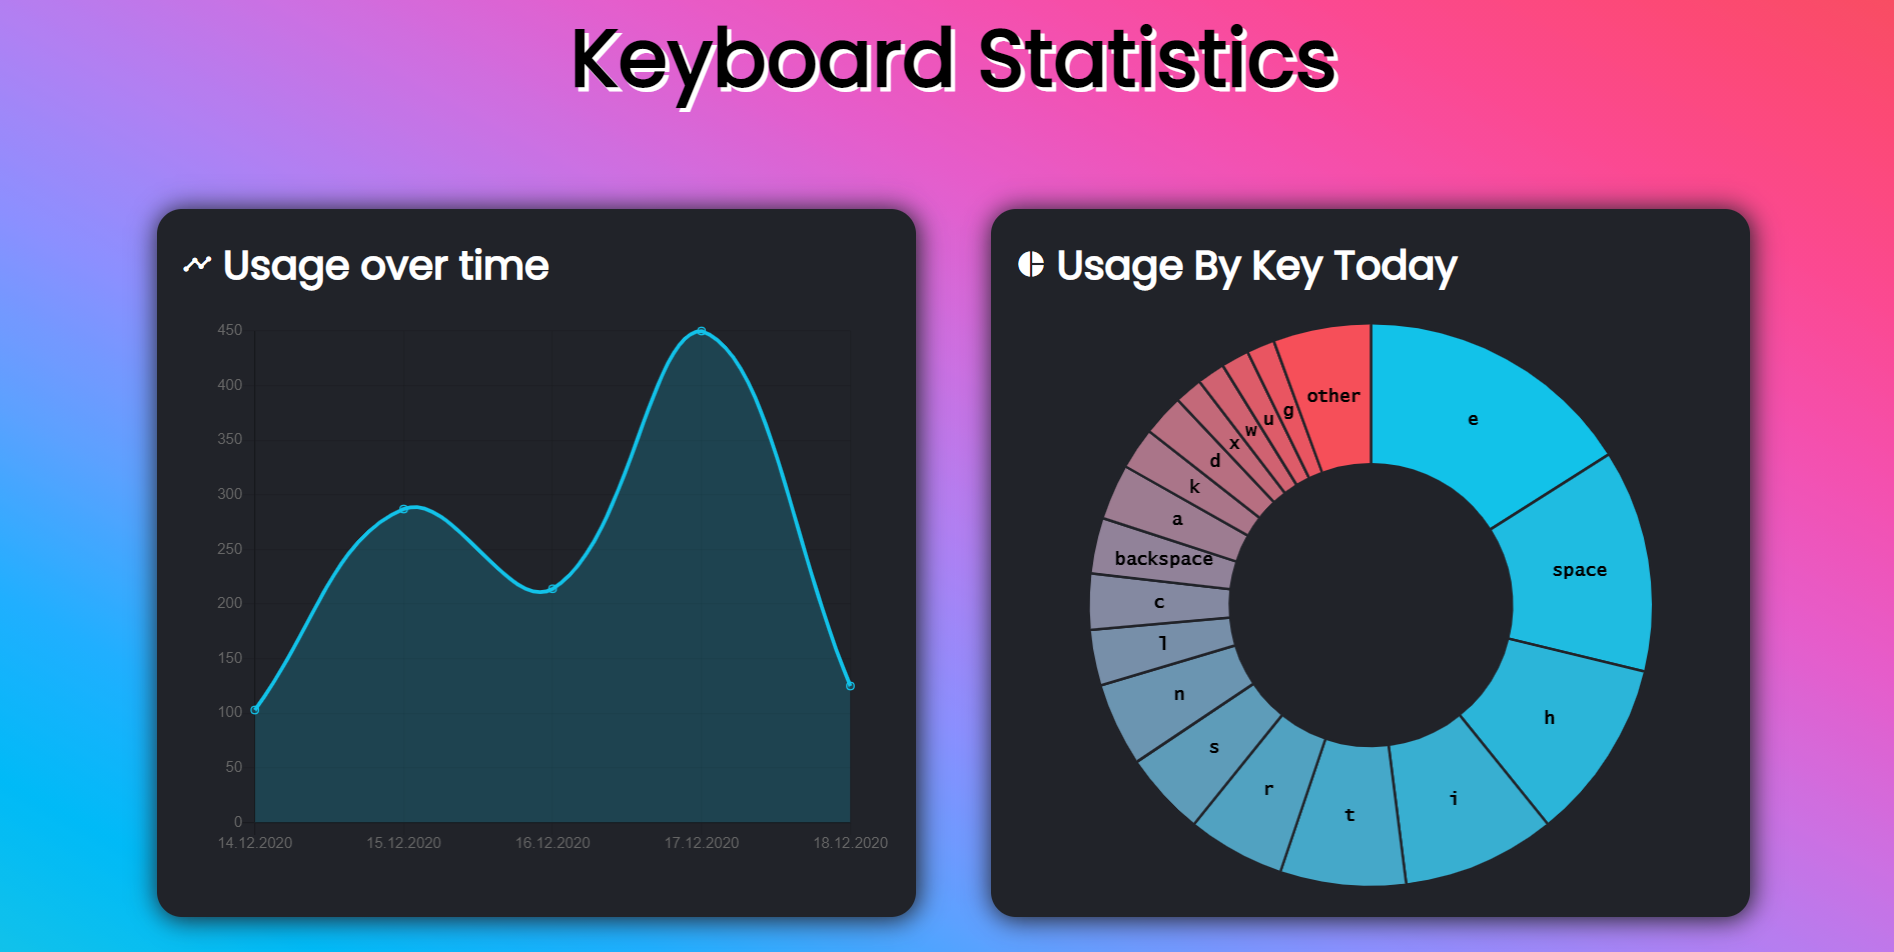
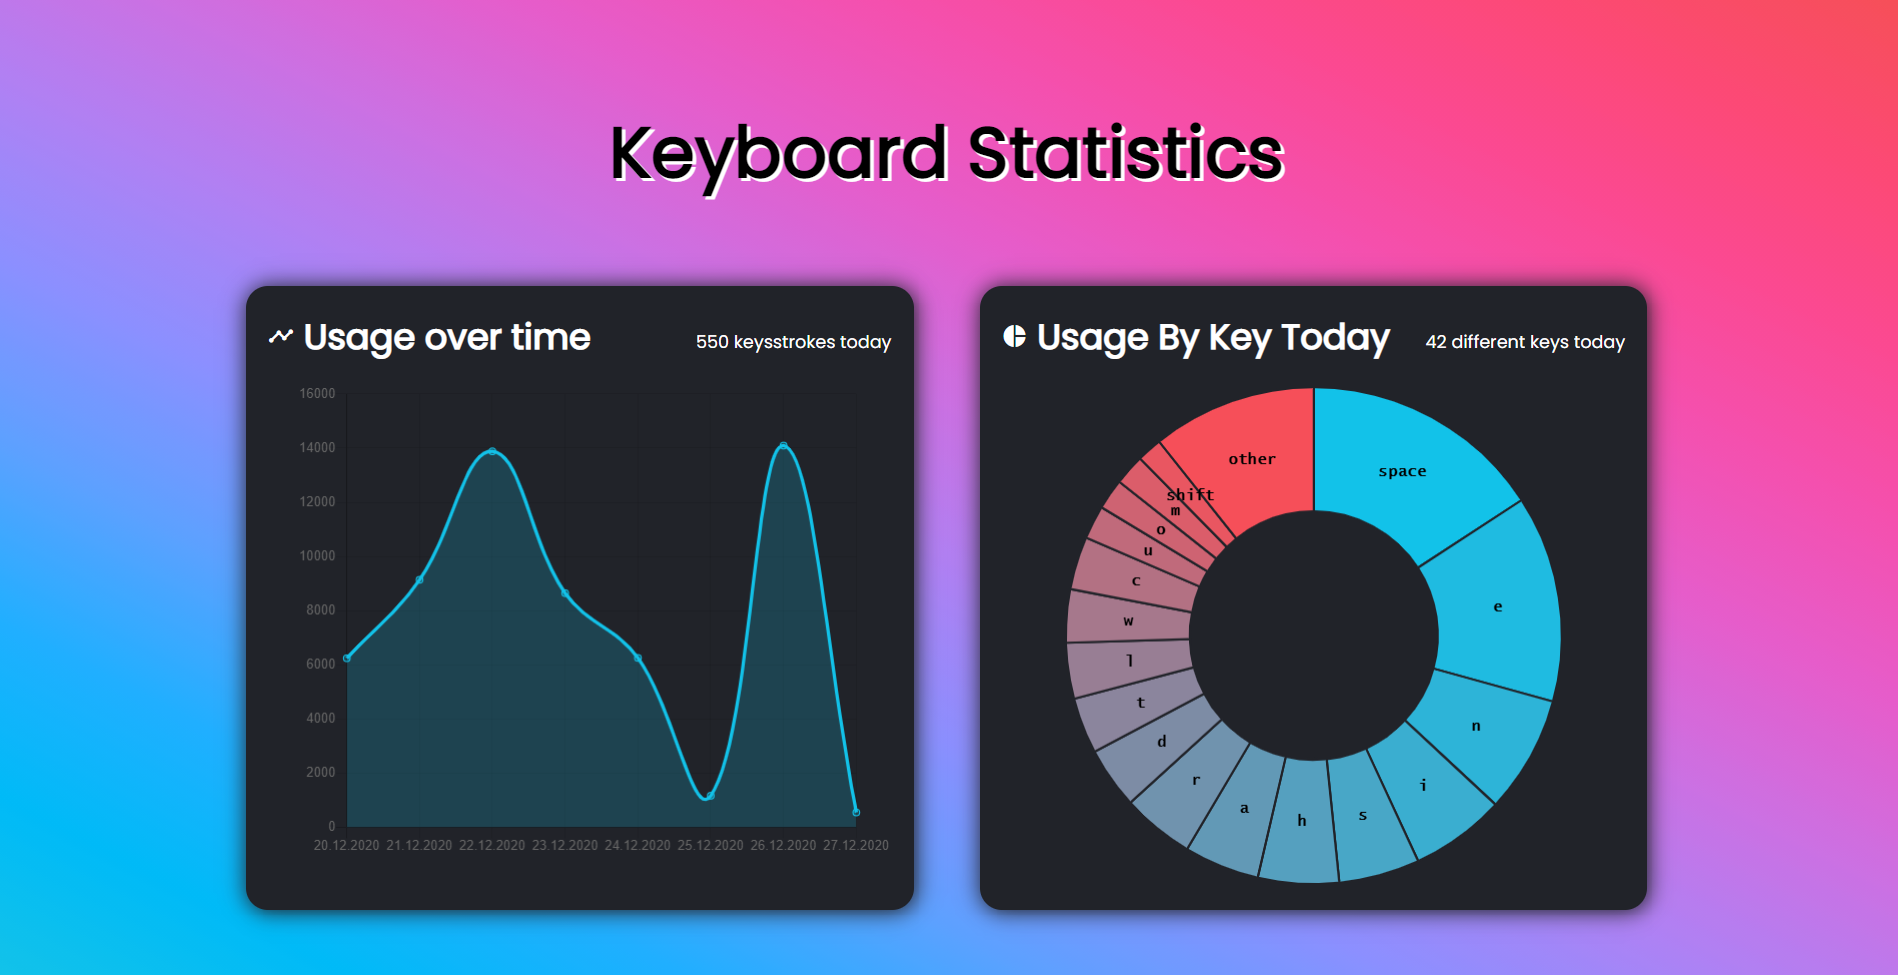
Added more Informationen & animation

diff --git a/static/js/live-updater.js b/static/js/live-updater.js
@@ -7,15 +7,18 @@ $(document).ready(function() {
     // get data
     const data = JSON.parse(msg.data);
 
+    // update total distinct keys
+    document.getElementById("total_distinct_keys").innerHTML = data['distribution_data'].length;
+
     // update time-diagram
-    timeDiagram.data.datasets[0].data = data['time_data']
-    timeDiagram.data.labels = data['time_labels']
-    timeDiagram.update()
+    timeDiagram.data.datasets[0].data = data['time_data'];
+    timeDiagram.data.labels = data['time_labels'];
+    timeDiagram.update();
 
-    distributionDiagram.data.datasets[0].data = data['distribution_data']
-    distributionDiagram.data.labels = data['distribution_labels']
-
-    const len = distributionDiagram.data.datasets[0].data.length
+    // update distribution-diagram
+    distributionDiagram.data.datasets[0].data = data['distribution_data'];
+    distributionDiagram.data.labels = data['distribution_labels'];
+    const len = distributionDiagram.data.datasets[0].data.length;
     const all = timeDiagram.data.datasets[0].data[timeDiagram.data.datasets[0].data.length-1];
     let other = 0;
     for (let i = 0; i < len; i++) {
@@ -30,12 +33,12 @@ $(document).ready(function() {
         i = Infinity;
       }
     }
+    let colors = interpolateColors("rgb(18, 194, 233)", "rgb(246, 79, 89)", distributionDiagram.data.labels.length);
+    distributionDiagram.data.datasets[0].backgroundColor = colors;
+    distributionDiagram.update();
 
-    let colors = interpolateColors("rgb(18, 194, 233)", "rgb(246, 79, 89)", distributionDiagram.data.labels.length)
-    distributionDiagram.data.datasets[0].backgroundColor = colors
-    
-    distributionDiagram.update()
-
+    // update total keys today
+    document.getElementById("total_today").innerHTML = all;
   
   });
 });

diff --git a/static/css/style.css b/static/css/style.css
@@ -10,11 +10,11 @@ body {
 }
 
 .flex-container {
-  display: flex;
-  flex-wrap: wrap;
+	display: flex;
+	flex-wrap: wrap;
 
-  align-items: center;
-  justify-content: center;
+	align-items: center;
+	justify-content: center;
 }
 
 .card {
@@ -38,7 +38,21 @@ body {
 	text-shadow: 3px 3px white;
 }
 
+.card-header{
+	display: inline-block;
+}
+
+.ml10 .letter {
+	display: inline-block;
+	transform-origin: 0 0;
+}
+
 .canvasdiv {
 	width: 100%;
 	height: 100%;
+}
+
+.card-info {
+	float: right;
+	padding-top: 1.45em;
 }

diff --git a/static/js/banner-animation.js b/static/js/banner-animation.js
@@ -1,0 +1,11 @@
+// Wrap every letter in a span
+var textWrapper = document.querySelector('.ml10 .letters');
+textWrapper.innerHTML = textWrapper.textContent.replace(/\S/g, "<span class='letter'>$&</span>");
+
+anime.timeline({loop: false})
+  .add({
+    targets: '.ml10 .letter',
+    rotateY: [-90, 0],
+    duration: 100,
+    delay: (el, i) => 45 * i
+  });

diff --git a/templates/index.php b/templates/index.php
@@ -1,5 +1,4 @@
 <html>
-
 <head>
 	<title>Keyboard Statistics 🔥</title>
 
@@ -17,24 +16,33 @@
 	<script type="text/javascript" src="static/js/chartjs-plugin-labels.min.js"></script>
 	<script type="text/javascript" src="//code.jquery.com/jquery-3.3.1.min.js"></script>
 	<script type="text/javascript" src="//cdnjs.cloudflare.com/ajax/libs/socket.io/1.3.6/socket.io.min.js"></script>
+	<script type="text/javascript" src="//cdnjs.cloudflare.com/ajax/libs/animejs/2.0.2/anime.min.js"></script>
 
 	<!-- custom scripts -->
 	<script type="text/javascript" src="static/js/util.js"></script>
 	<script type="text/javascript" src="static/js/live-updater.js"></script>
 
 </head>
-
 <body>
 
-	<br>
+	<!-- banner -->
 	<div class="banner">
-		<h1>Keyboard Statistics</h1>
+		<br>
+		<h1 class="ml10">
+			<span class="text-wrapper">
+				<span class="letters">Keyboard Statistics</span>
+			</span>
+		</h1>
 	</div>
+	<script type="text/javascript" src="static/js/banner-animation.js"></script>
 	
+	<!-- flex-container for the cards -->
 	<div class="flex-container">
 
+		<!-- usage-over-time-card -->
 		<div class="card">
-			<h1><span class="material-icons">timeline</span>  Usage over time</h1>
+			<h1 class="card-header"><span class="material-icons">timeline</span>  Usage over time</h1>
+			<p class="card-info"><a id="total_today">{{total_today}}</a> keysstrokes today</p>
 			<div class="canvasdiv">
             	<canvas id="time_diagram"  width="100px" height="80px"></canvas>
           	</div>
@@ -43,11 +51,12 @@
           		let time_diagram_labels = {{time_diagram_labels}};
           	</script>
           	<script type="text/javascript" src="static/js/time_diagram.js"></script>
-          	
 		</div>
 
+		<!-- usage-by-key-today-card -->
 		<div class="card">
-			<h1><span class="material-icons">pie_chart</span>  Usage By Key Today</h1>
+			<h1 class="card-header"><span class="material-icons">pie_chart</span>  Usage By Key Today</h1>
+			<p class="card-info"><a id="total_distinct_keys">{{total_distinct_keys}}</a> different keys today</p>
 			<div class="canvasdiv">
             	<canvas id="distribution_diagram"  width="100px" height="80px"></canvas>
           	</div>
@@ -61,5 +70,4 @@
 	</div>
 
 </body>
-
 </html>

diff --git a/app.py b/app.py
@@ -90,7 +90,9 @@ def main():
                             time_diagram_data=time['values'],
                             time_diagram_labels=time['keys'],
                             distribution_diagram_data=distribution['values'],
-                            distribution_diagram_labels=distribution['keys'],)
+                            distribution_diagram_labels=distribution['keys'],
+                            total_today=time['values'][-1],
+                            total_distinct_keys=len(distribution['keys']),)
 
 
 def start_app():
